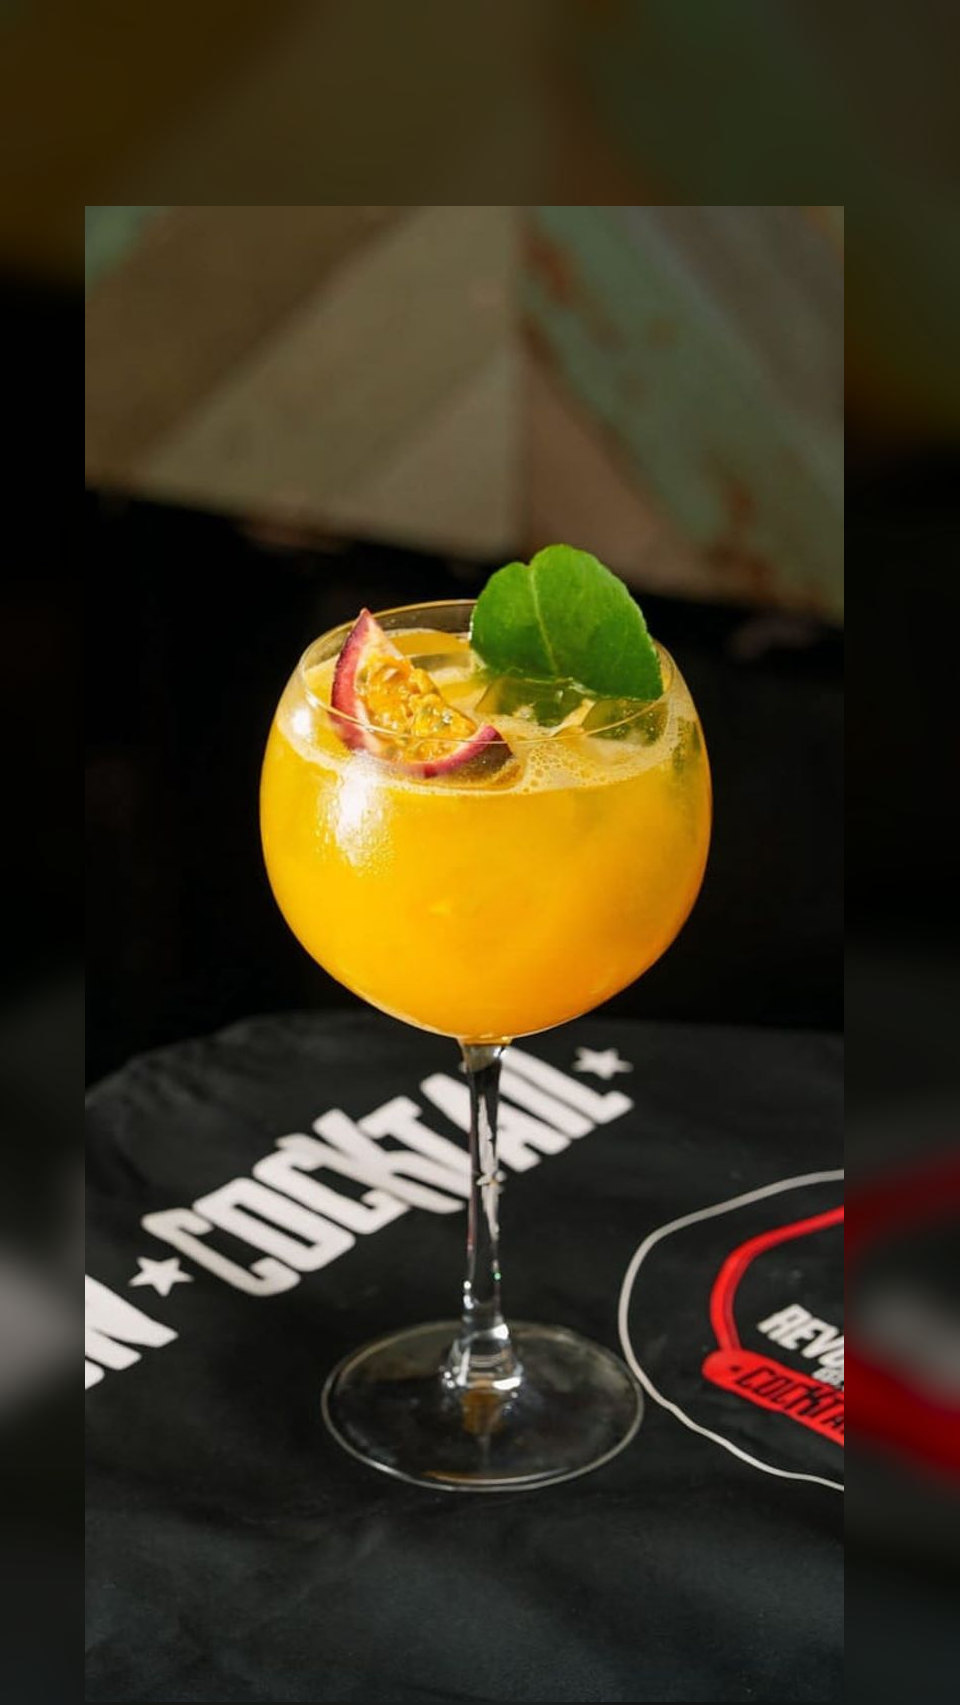
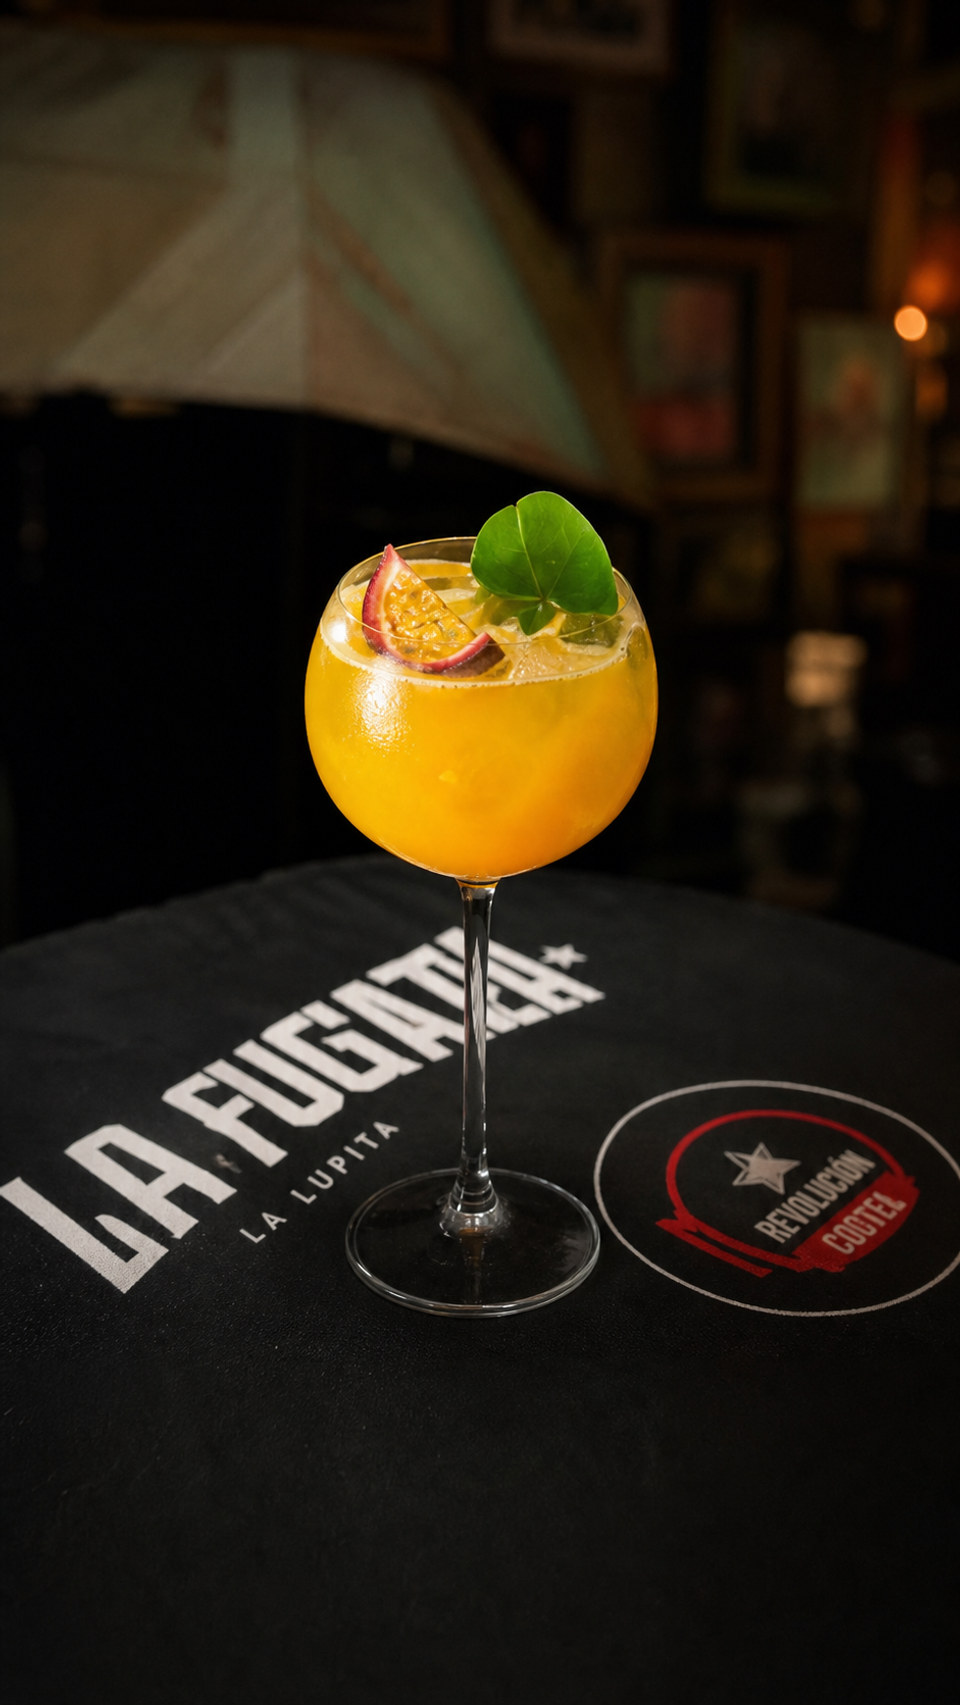
Harmonise le cadrage des boissons du menu

diff --git a/src/data/imagePresentation.ts b/src/data/imagePresentation.ts
@@ -1,0 +1,61 @@
+export type ImageFraming = {
+  objectPosition: string;
+  scale: number;
+  translateY: number;
+  transformOrigin: string;
+};
+
+const CENTERED: ImageFraming = {
+  objectPosition: "50% 50%",
+  scale: 1,
+  translateY: 0,
+  transformOrigin: "50% 50%",
+};
+
+const DRINK: ImageFraming = {
+  objectPosition: "50% 62%",
+  scale: 1,
+  translateY: 0,
+  transformOrigin: "50% 100%",
+};
+
+const WIDE_FOOD: ImageFraming = {
+  objectPosition: "50% 50%",
+  scale: 1,
+  translateY: 0,
+  transformOrigin: "50% 50%",
+};
+
+const drinkPrefixes = new Set([
+  "as", "be", "cl", "en", "hh", "lc", "li", "mt", "sd", "sg", "sh", "wn",
+]);
+
+const wideFoodPrefixes = new Set(["bg", "br", "bw", "cv", "mn", "qa", "tc"]);
+
+const ITEM_FRAMING: Record<string, Partial<ImageFraming>> = {
+  "as-cuban": { objectPosition: "50% 100%", scale: 1.07, transformOrigin: "50% 100%" },
+  "as-bull-kiss": { objectPosition: "50% 100%", scale: 1.08, transformOrigin: "50% 100%" },
+  "as-asian-colada": { objectPosition: "50% 100%", scale: 1, translateY: 2.5, transformOrigin: "50% 100%" },
+  // Verres particulièrement hauts : garder le sommet et aligner la base.
+  "sh-blowjob": { objectPosition: "50% 100%", scale: 0.9, transformOrigin: "50% 100%" },
+  "li-lemonade-tea": { objectPosition: "50% 68%" },
+  "li-jamaica": { objectPosition: "50% 68%" },
+  "be-blanche-bruges": { objectPosition: "50% 68%" },
+  "be-coronarita": { objectPosition: "50% 68%" },
+  "be-rose-bruges": { objectPosition: "50% 68%" },
+
+  // Photos très panoramiques : garder le sujet au centre du cadre.
+  "bs-peanuts": { objectPosition: "50% 50%" },
+  "bs-cucumber": { objectPosition: "50% 50%" },
+};
+
+export function getImageFraming(itemId: string): ImageFraming {
+  const prefix = itemId.split("-", 1)[0];
+  const family = drinkPrefixes.has(prefix)
+    ? DRINK
+    : wideFoodPrefixes.has(prefix)
+      ? WIDE_FOOD
+      : CENTERED;
+
+  return { ...family, ...ITEM_FRAMING[itemId] };
+}

diff --git a/src/components/menu/ItemCard.tsx b/src/components/menu/ItemCard.tsx
@@ -4,6 +4,7 @@ import { PriceTag } from "./PriceTag";
 import { ITEM_IMAGES } from "@/data/itemImages";
 import { hasCJK } from "@/lib/i18n";
 import { ALLERGEN_META, detectAllergens } from "@/lib/allergens";
+import { getImageFraming } from "@/data/imagePresentation";
 
 const accentMap: Record<NonNullable<Item["accent"]>, string> = {
   terracotta: "var(--terracotta)",
@@ -35,6 +36,7 @@ export function ItemCard({
   const allergens = detectAllergens(item);
   // Compact card shows max 3 emojis, hero up to 5
   const visibleAllergens = allergens.slice(0, isHero ? 5 : 3);
+  const imageFraming = getImageFraming(item.id);
 
   return (
     <button
@@ -45,14 +47,23 @@ export function ItemCard({
     >
       <div className="relative h-full w-full overflow-hidden bg-secondary">
         {image ? (
-          <img
-            src={image}
-            alt={item.nameEn}
-            loading="lazy"
-            width={1024}
-            height={768}
-            className="h-full w-full object-cover object-center transition-transform duration-500 group-hover:scale-105"
-          />
+          <div
+            className="absolute inset-0"
+            style={{
+              transform: `translateY(${imageFraming.translateY}%) scale(${imageFraming.scale})`,
+              transformOrigin: imageFraming.transformOrigin,
+            }}
+          >
+            <img
+              src={image}
+              alt={item.nameEn}
+              loading="lazy"
+              width={1024}
+              height={768}
+              className="h-full w-full object-cover transition-transform duration-500 group-hover:scale-105"
+              style={{ objectPosition: imageFraming.objectPosition }}
+            />
+          </div>
         ) : (
           <div className="h-full w-full bg-gradient-to-br from-secondary to-card" />
         )}

diff --git a/src/components/menu/ItemModal.tsx b/src/components/menu/ItemModal.tsx
@@ -6,6 +6,7 @@ import { hasCJK } from "@/lib/i18n";
 import { ALLERGEN_META, detectAllergens } from "@/lib/allergens";
 import { PriceTag } from "./PriceTag";
 import shishaImg from "@/assets/shisha.jpg";
+import { getImageFraming } from "@/data/imagePresentation";
 
 // Les parfums shisha (lv-/rv-) n'ont pas de photo propre : la vue Shisha les
 // liste en texte. Dans le détail, on montre la photo de narguilé de la catégorie.
@@ -35,6 +36,7 @@ export function ItemModal({
   const allergens = detectAllergens(item);
   const isShisha = isShishaFlavor(item.id);
   const image = isShisha ? shishaImg : ITEM_IMAGES[item.id];
+  const imageFraming = getImageFraming(item.id);
 
   return (
     <div
@@ -72,13 +74,22 @@ export function ItemModal({
         ) : (
           <div className="bg-secondary portrait:h-[40vh] landscape:md:h-full landscape:md:aspect-auto aspect-[4/3]">
             {image && (
-              <img
-                src={image}
-                alt={item.nameEn}
-                width={1024}
-                height={768}
-                className="h-full w-full object-cover object-center transition-transform duration-700 hover:scale-105"
-              />
+              <div
+                className="h-full w-full"
+                style={{
+                  transform: `translateY(${imageFraming.translateY}%) scale(${imageFraming.scale})`,
+                  transformOrigin: imageFraming.transformOrigin,
+                }}
+              >
+                <img
+                  src={image}
+                  alt={item.nameEn}
+                  width={1024}
+                  height={768}
+                  className="h-full w-full object-cover transition-transform duration-700 hover:scale-105"
+                  style={{ objectPosition: imageFraming.objectPosition }}
+                />
+              </div>
             )}
           </div>
         )}

diff --git a/src/components/menu/ShishaView.tsx b/src/components/menu/ShishaView.tsx
@@ -16,14 +16,15 @@ export function ShishaView({
 }) {
   return (
     <div className="grid h-full w-full grid-cols-1 gap-4 md:grid-cols-[minmax(0,24rem)_1fr]">
-      <div className="hidden h-full md:flex md:justify-center">
-        {/* Le panneau ÉPOUSE la photo : l'<img> en h-full w-auto prend toute la
-         * hauteur dispo et sa largeur suit le ratio → photo ENTIÈRE (jamais
-         * zoomée/coupée), AUCUNE bande vide, et piloté par la hauteur donc pas
-         * de débordement. Le cadre borduré colle à l'image. Kiosk-safe (pas
-         * d'aspect-ratio ni de hauteur fixe). */}
-        <div className="relative h-full overflow-hidden rounded-2xl border border-border/50 bg-secondary">
-          <img src={shishaImg} alt="Shisha" className="h-full w-auto max-w-full object-cover object-center transition-transform duration-700 hover:scale-105" />
+      <div className="hidden md:flex md:items-center md:justify-center">
+        {/* Boîte au ratio EXACT de la photo (768×1364 → 177.6%) via le hack
+         * padding-bottom. Kiosk-safe : PAS d'aspect-ratio et PAS de chaîne
+         * height:100% (qui s'effondre sur le vieux WebView ~Chrome 53 → image
+         * "noire"). L'<img> en absolute object-cover a donc TOUJOURS une boîte
+         * concrète → photo ENTIÈRE, aucune bande vide, jamais noire. */}
+        <div className="relative w-full max-w-[15rem] overflow-hidden rounded-2xl border border-border/50 bg-secondary">
+          <div style={{ paddingBottom: "177.6%" }} />
+          <img src={shishaImg} alt="Shisha" className="absolute inset-0 h-full w-full object-cover object-center transition-transform duration-700 hover:scale-105" />
           <div className="absolute inset-x-0 bottom-0 bg-gradient-to-t from-black/85 via-black/40 to-transparent p-5 pt-14">
             <h2 className="en-text font-display text-2xl text-white">Shisha</h2>
             <p className="zh text-lg text-white/85">水烟</p>